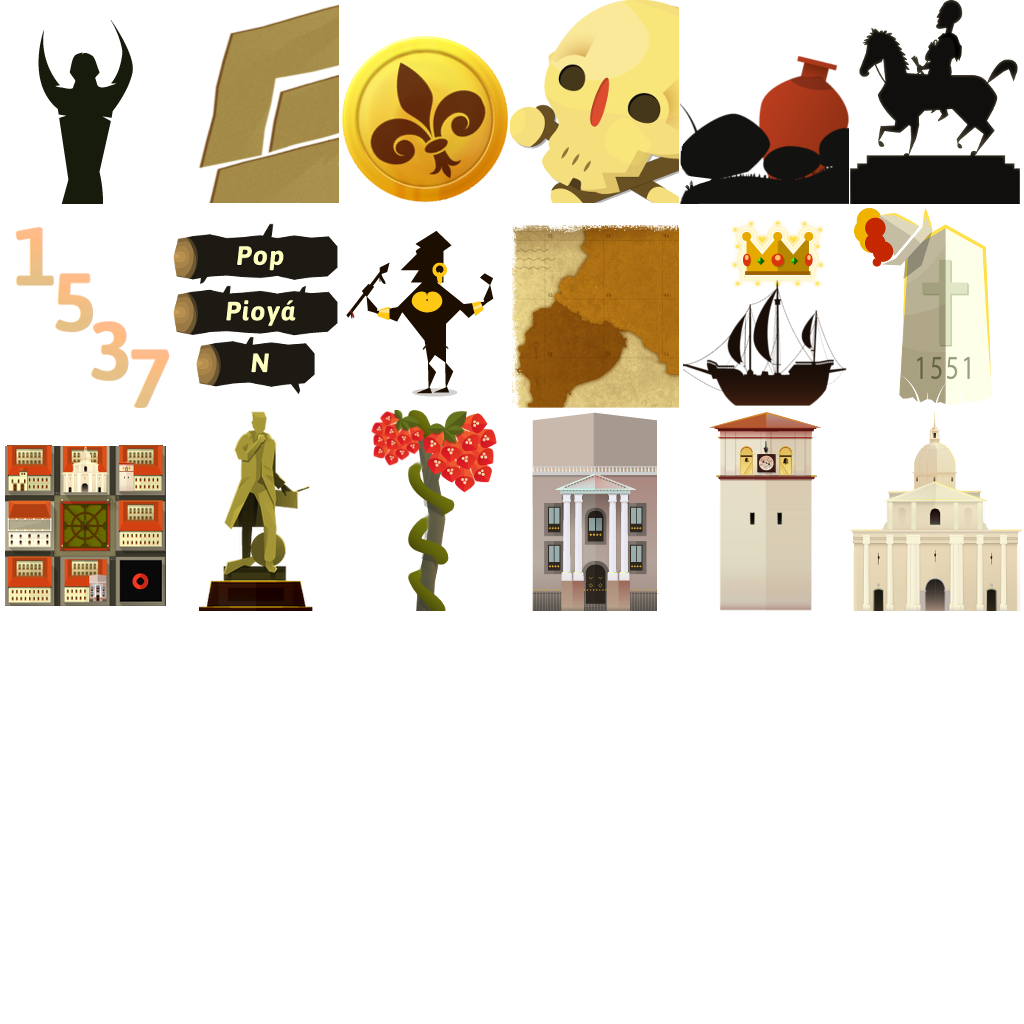
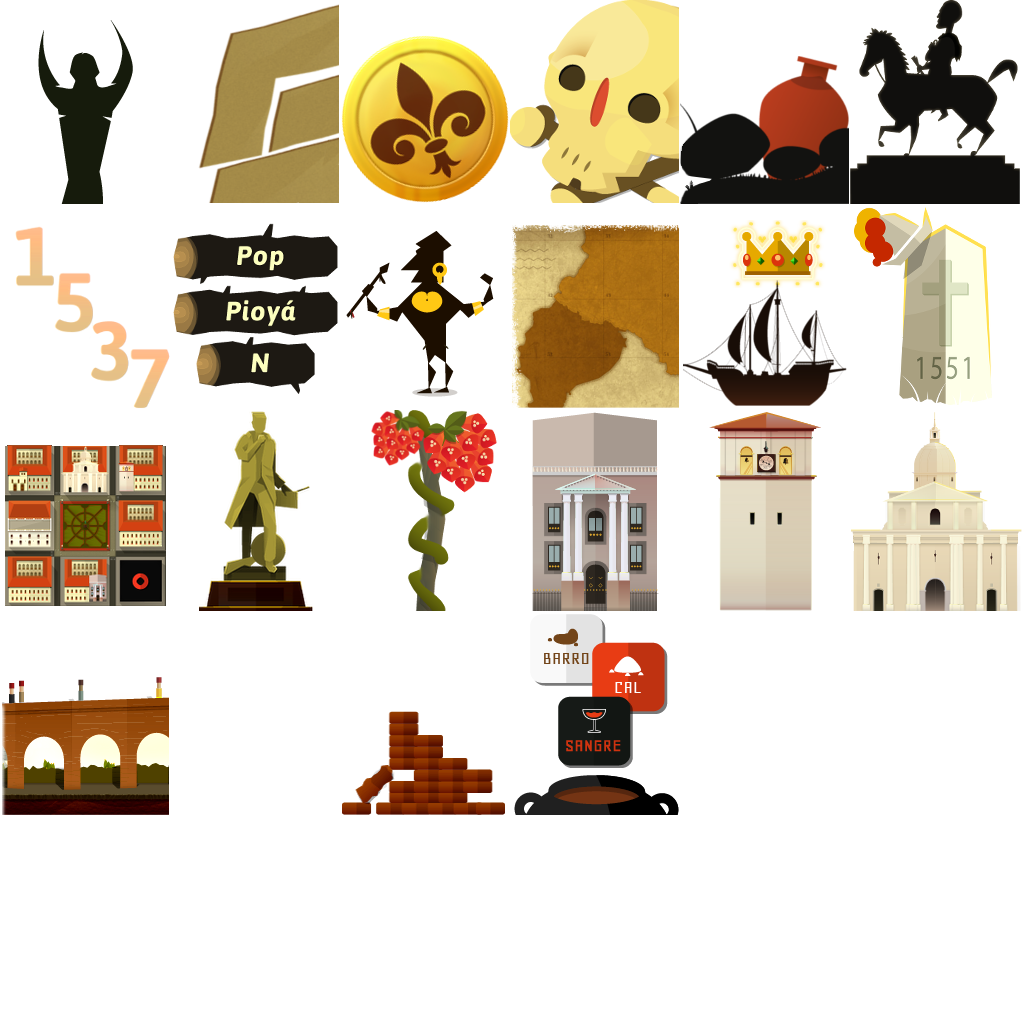
Mejoras graficas de pistas, mejoras puente 4, mejoras parque 2

Changed region(s): [[0.3125, 0.5938, 0.6562, 0.8125], [0.0, 0.6562, 0.1875, 0.8125]]

diff --git a/hdp/public_html/src/act/puente/4/componentes.js b/hdp/public_html/src/act/puente/4/componentes.js
@@ -4,8 +4,10 @@ Crafty.c("H4_Ficha", {
 	numSimbolo: -1, // Número de simbolo
 	e_padre: null,
 	e_tapa: null,
-	tapada: true, // true si está tapada
-	bloqueado: true, // false si recibe eventos del mouse
+	tapada: true, // true si la ficha está tapada
+	bloqueado: true, // true para reaccionar a eventos del mouse
+	ganada: false, // True si la ficha ya ha sido enparejada (esperando animación de salida)
+	y0: 0, // pos Y inicial
 	
 	init: function() {
 		this.requires("2D, Canvas, sprH4_ficha, Tweener, Mouse");
@@ -13,17 +15,19 @@ Crafty.c("H4_Ficha", {
 		this.attach(this.e_tapa);
 		
 		// Al hacer click, destapar
-		this.bind("MouseUp", this.destapar);
+		this.bind("MouseDown", this.destapar);
 		
 		return this;
 	},
 	
+	// Invocar luego de posicionar
 	H4_Ficha: function(num, numSimbolo, e_padre) {
+		this.y0 = this._y;
 		this.num = num;
 		this.e_padre = e_padre;
 		this.simbolo(numSimbolo);
 		var self = this;
-		this.e_tapa.addTween({ alpha: 0.5 }, "linear", 25, function() {
+		this.e_tapa.addTween({ alpha: 1 }, "linear", 25, function() {
 			self.bloqueado = false;
 			self.alpha = 1;
 		});
@@ -32,35 +36,56 @@ Crafty.c("H4_Ficha", {
 	
 	// Muestra el símbolo
 	destapar: function() {
-		console.log("destapadas: " + this.e_padre.numDestapadas)
-		if (!this.bloqueado && this.tapada && this.e_padre.numDestapadas < 2) {
+		if (!this.bloqueado && this.tapada) {
+			console.log("Iniciando DEStapar ficha " + this.num)
+			// Si ya hay 2 destapadas, taparlas antes de destapar esta
 			this.alpha = 1;
-			this.tapada = false;
 			this.bloqueado = true; // bloqueamos hasta que sevuelva a tapar
 			this.visible = true;
-			this.e_tapa.addTween({ alpha: 0 }, "linear", 5);
-			this.addTween({ y: this._y - 30 }, "easeOutCubic", 8, function() {
-				this.addTween({ y: this._y + 30 }, "easeOutElastic", 26);
-			});
+			this.tapada = false;
 			
-			this.e_padre.fichaDestapada(this);
-		}
-		return this;
-	},
-	
-	// Esconde el símbolo
-	tapar: function() {
-		if (!this.tapada) {
-			this.tapada = true;
-			this.e_tapa.alpha = 0;
-			this.e_tapa.visible = true;
-			this.e_tapa.addTween({ alpha: 1 }, "linear", 5);
-			this.addTween({ y: this._y - 30 }, "easeOutCubic", 8, function() {
-				this.addTween({ y: this._y + 30 }, "easeOutElastic", 20, function() {
+			console.log(this.y0)
+			var y0 = this.y0;
+			this.cancelTweener();
+			this.e_tapa.cancelTweener();
+			
+			this.e_tapa.addTween({ alpha: 0 }, "linear", 5);
+			this.addTween({ y: y0 - 30 }, "easeOutCubic", 8, function() {
+				this.addTween({ y: y0 }, "easeOutElastic", 26, function() {
 					this.bloqueado = false;
+					console.log("Fin DEStapar ficha " + this.num)
 				});
 			});
 			
+			this.e_padre.fichaDestapada(this);
+			return true;
+		}
+		
+		return false;
+	},
+	
+	// Esconde el símbolo
+	// Retorna true si el simbolo se pudo ordenar esconder
+	tapar: function() {
+		if (!this.tapada) {
+			console.log("Iniciando tapar ficha " + this.num)
+			this.tapada = true;
+			this.bloqueado = true;
+			this.e_tapa.visible = true;
+			var y0 = this.y0;	
+			
+			this.cancelTweener();
+			this.e_tapa.cancelTweener();
+				
+			this.e_tapa.addTween({ alpha: 1 }, "linear", 5);
+			this.addTween({ y: y0 - 30 }, "easeOutCubic", 8, function() {
+				this.addTween({ y: y0 }, "easeOutElastic", 20, function() {
+					this.bloqueado = false;
+					console.log("Terminado tapar ficha " + this.num)
+				});
+			});
+			
+			this.e_padre.numDestapadas--;
 		}
 		return this;
 	},

diff --git a/hdp/public_html/src/act/puente/4/actividad.js b/hdp/public_html/src/act/puente/4/actividad.js
@@ -47,8 +47,8 @@ var ActPuente4 = function() {
 			} while (numSimbolo === 0);
 			
 			this.e_fichas[i] = Crafty.e("H4_Ficha")
-									.H4_Ficha(i, numSimbolo, this)
-									.attr({ x: posX, y: posY });
+									.attr({ x: posX, y: posY })
+									.H4_Ficha(i, numSimbolo, this);
 			posX += 145;
 			if (posX > 1100) {
 				posX = 65;
@@ -61,7 +61,7 @@ var ActPuente4 = function() {
 	this.fichaDestapada = function(e_ficha) {
 		var self = this;
 		this.numDestapadas++;
-		console.log("destapadas: " + this.numDestapadas)
+		console.log("destapadas: " + this.numDestapadas);
 		
 		if (this.numDestapadas === 1) {
 			this.e_destapada1 = e_ficha;
@@ -69,21 +69,25 @@ var ActPuente4 = function() {
 		else if (this.numDestapadas === 2) {
 			// Hay 2 destapadas, hay que compararlas
 			this.e_destapada2 = e_ficha;
+			var e_ficha1 = this.e_destapada1;
+			var e_ficha2 = this.e_destapada2;
 			
 			// comparar y ocultar
-			if (this.e_destapada1.numSimbolo === this.e_destapada2.numSimbolo) {
+			if (e_ficha1.numSimbolo === e_ficha2.numSimbolo) {
 				this.aciertos++;
 				
 				// Mostrar los avisos de pareja correcta
-				this.e_aviso1.attr({ x: this.e_destapada1._x + 125, y: this.e_destapada1._y - 70 }).mostrar(0, 50);
-				this.e_aviso2.attr({ x: this.e_destapada2._x + 125, y: this.e_destapada2._y - 70 }).mostrar(0, 50);
+				this.e_aviso1.attr({ x: e_ficha1._x + 125, y: e_ficha1._y - 70 }).mostrar(0, 50);
+				this.e_aviso2.attr({ x: e_ficha2._x + 125, y: e_ficha2._y - 70 }).mostrar(0, 50);
+				e_ficha1.ganada = true;
+				e_ficha2.ganada = true;
 				
 				// Si no son sangre cal o barro, ocultarlas
-				var simbolo = this.e_destapada1.numSimbolo;
+				var simbolo = e_ficha1.numSimbolo;
 				if (simbolo < 10) {
 					Crafty.e("DelayFrame").delay(function() {
-						self.e_destapada1.remover();
-						self.e_destapada2.remover();
+						e_ficha1.remover();
+						e_ficha2.remover();
 					}, 50);
 				}
 				else {
@@ -95,23 +99,38 @@ var ActPuente4 = function() {
 					this.e_olla.agregarIngrediente(simbolo - 10);
 				}
 				
-				// Permitir volver a destapar luego de que hayan sido removidas las fichas
-				Crafty.e("DelayFrame").delay(function() {
-					self.numDestapadas = 0;
-				}, 66);
+				this.numDestapadas -= 2;
 				
 				if (this.aciertos === this.totAciertos) {
 					this.ganarActividad();
 				}
 			}
 			else {
+				// Las fichas son diferentes, volverlas a tapar
 				Crafty.e("DelayFrame").delay(function() {
-					self.e_destapada1.tapar();
-					self.e_destapada2.tapar();
-					self.numDestapadas = 0;
+					console.log("tapando automaticamente")
+					e_ficha1.tapar();
+					e_ficha2.tapar();
+					
 				}, 60);
-				
 			}
+		} else if (this.numDestapadas === 3) {
+			// Hay varias destapadas y queremos mostrar otra? forzar tapar las 2 anteriores!
+			var e_ficha1 = this.e_destapada1;
+			var e_ficha2 = this.e_destapada2;
+			console.log("forzar tapar!");
+			console.log("ficha 1 tapada: " + e_ficha1.tapada);
+			console.log("ficha 2 tapada: " + e_ficha2.tapada);
+			var numActual = e_ficha.num;
+			for (i = 0 ; i < 24 ; i++) {
+				if (i !== numActual) { 
+					if (!this.e_fichas[i].tapada && !this.e_fichas[i].ganada) {
+						this.e_fichas[i].tapar();
+					}
+				}
+			}
+			
+			this.e_destapada1 = e_ficha;
 		}
 		
 		return this;

diff --git a/hdp/public_html/src/datos/nivel2.js b/hdp/public_html/src/datos/nivel2.js
@@ -3,7 +3,7 @@ niveles[2] = {
 	subnivel: [
 		{
 			id: 1,
-			duracion: 15000,
+			duracion: 16000,
 			fondo: '',
 			dato: "Apareció con la fundación de la ciudad,\nen \b1537\b.\n Como era costumbre en las \bciudades\n coloniales españolas\b, los\n conquistadores elegían un espacio\n amplio y trazaban las calles de forma\n \bperpendicular\b para construir los\n edificios que representaban los\n poderes en España.",
 			pista: { ladoIzq: true, y: 570 },
@@ -15,7 +15,7 @@ niveles[2] = {
 		},
 		{
 			id: 2,
-			duracion: 7000,
+			duracion: 10000,
 			fondo: 'img/act/parque/2/fondo.jpg',
 			dato: 'En el centro del parque hay un\n monumento a Francisco José de Caldas\n (también llamado \b"Sabio Caldas"\b),\n  reconocido botánico, astrónomo y\nprócer colombiano; uno de los\n hijos ilustres de Popayán.\n El monumento se construyó para\n conmemorar los \b100 años de la\n independencia\b de Colombia.',
 			pista: { ladoIzq: false, y: 550 },

diff --git a/hdp/public_html/src/act/morro/4/componentes.js b/hdp/public_html/src/act/morro/4/componentes.js
@@ -16,7 +16,7 @@ Crafty.c("Morrito", {
 		this.reel("saleRaiz", 250, [[0,0],[106,0],[212,0],[318,0],[424,0],[530,0]]);
 		this.areaMap(new Crafty.polygon([5,66], [61,25], [109,86], [101,118], [28,119]));
 		
-		this.bind('MouseUp', this.arrancar);
+		this.bind('MouseDown', this.arrancar);
 	},
 	
 	Morrito: function(nid, e_punt, yIni, objPart) {
@@ -50,6 +50,7 @@ Crafty.c("Morrito", {
 					
 			//animar morrito, direccion de movimiento
 			this.bloqueado = true;
+			this.removeComponent("Mouse");
 			this.animate("saleRaiz", 1);
 			this.addTween({ y: (this.yIni - 150), alpha: 0 }, 'easeOutCubic', 30, function() {	
 				this.visible = false;
@@ -79,6 +80,7 @@ Crafty.c("Morrito", {
 			this.e_hueco.visible = false;
 			this.e_calaca.visible = false;
 			this.bloqueado = false;
+			this.addComponent("Mouse");
 		});
 		return this;
 	}

diff --git a/hdp/public_html/src/act/parque/2/actividad.js b/hdp/public_html/src/act/parque/2/actividad.js
@@ -162,7 +162,7 @@ var ActParque2 = function() {
 			Crafty("P2Bloque").each(function() {
 				//obteniendo la fuerza necesaria para mover los bloques
 				fX = randomFloat(-1, 1);
-				fY = randomFloat(-1, 0.2);
+				fY =0;// randomFloat(-1, );
 				
 				// Aplicar fuerza personalizada a los bloques de la base para más desorden
 				pos = this.body.GetPosition();

diff --git a/hdp/public_html/src/act/base/AC_Pista.js b/hdp/public_html/src/act/base/AC_Pista.js
@@ -48,7 +48,7 @@ Crafty.c("AC_Pista", {
 		}
 		this.x = this.xIni;
 		this.y = this.actConfig.y;
-		this.e_msg.y = this.y + 43;
+		this.e_msg.y = this.y + 25;
 		
 		
 		// Cubrimos con una capa transparente que evite interactuar antes de tiempo
